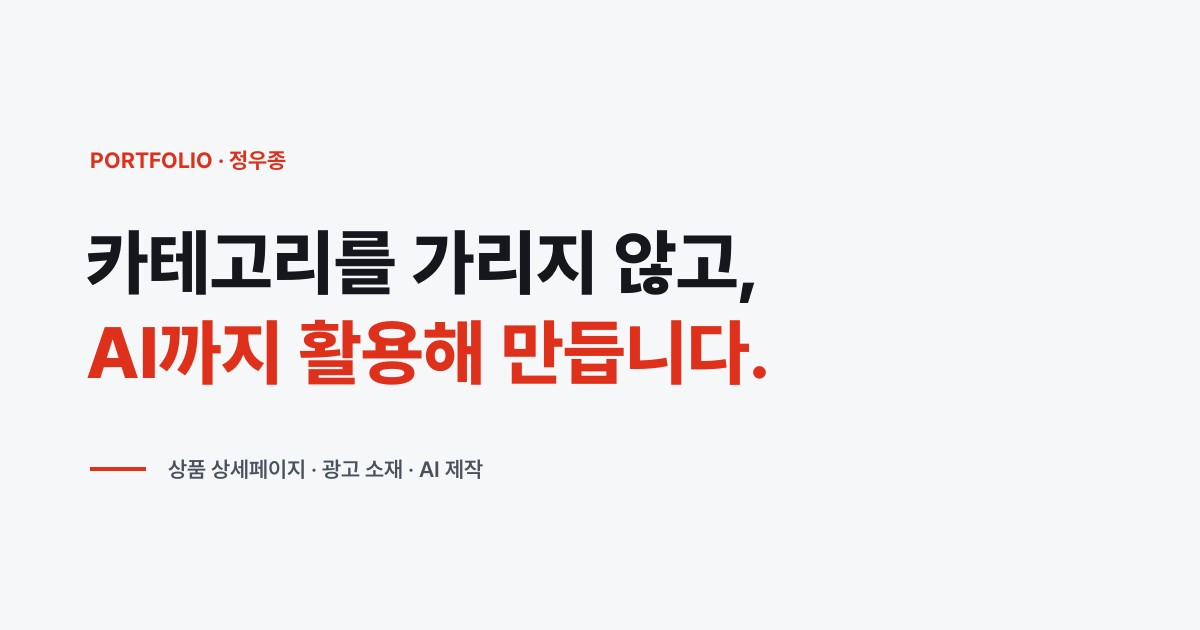
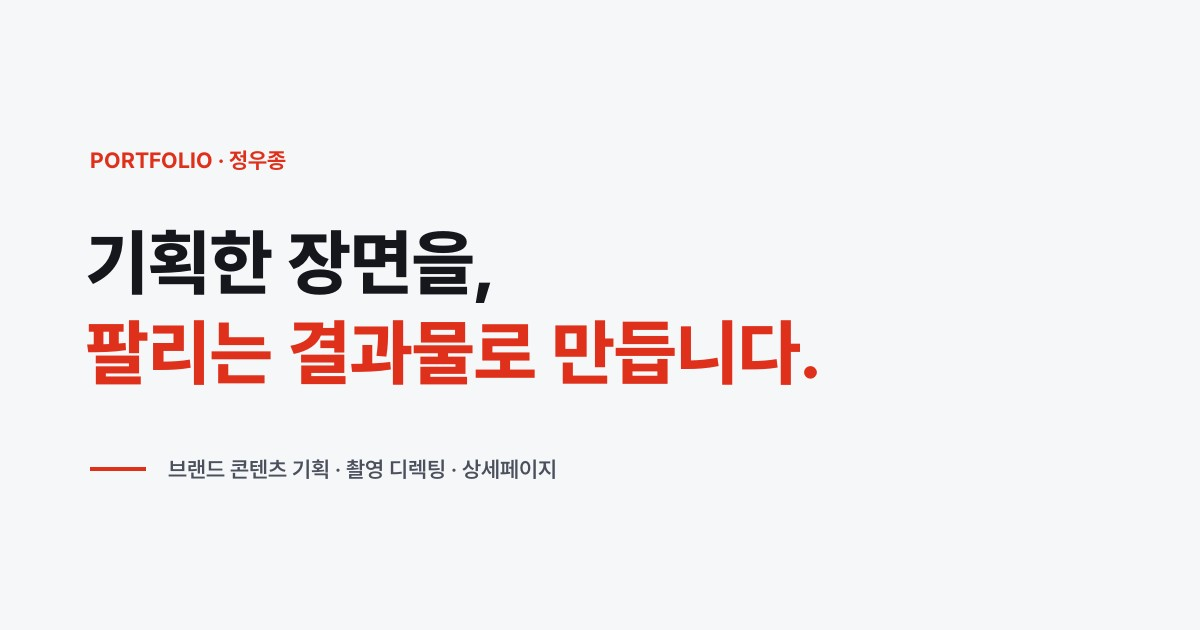
Add files via upload

Changed region(s): [[0.0617, 0.3619, 0.6783, 0.6333], [0.1233, 0.7238, 0.4625, 0.7841]]

diff --git a/living/index.html b/living/index.html
@@ -5,7 +5,7 @@
 <meta name="viewport" content="width=device-width,initial-scale=1,viewport-fit=cover">
 <meta name="robots" content="noindex,nofollow">
 <meta property="og:type" content="website">
-<meta property="og:title" content="정우종 | 콘텐츠·AI 제작 포트폴리오">
+<meta property="og:title" content="정우종 | 브랜드 콘텐츠 기획·촬영 디렉팅·상세페이지 포트폴리오">
 <meta property="og:description" content="기획한 장면을, 팔리는 결과물로 만듭니다.">
 <meta property="og:url" content="https://shopaaddict88-del.github.io/portfolio-wj/living/">
 <meta property="og:image" content="https://shopaaddict88-del.github.io/portfolio-wj/living/og.jpg">
@@ -14,7 +14,7 @@
   <meta property="og:image:alt" content="기획한 장면을, 팔리는 결과물로 만듭니다. 정우종 포트폴리오">
 <meta name="twitter:card" content="summary_large_image">
 <meta name="twitter:image" content="https://shopaaddict88-del.github.io/portfolio-wj/living/og.jpg">
-<title>정우종 | 콘텐츠·AI 제작 포트폴리오</title>
+<title>정우종 | 브랜드 콘텐츠 기획·촬영 디렉팅·상세페이지 포트폴리오</title>
 <style>
   :root{
     --ink:#f6f7f9;
@@ -98,6 +98,7 @@
   /* ---------- HERO ---------- */
   .hero{min-height:0; display:flex; flex-direction:column; justify-content:flex-start; padding-top:100px; padding-bottom:0;}
   .hero__label{font-family:var(--mono); font-weight:700; font-size:13px; color:var(--gold); letter-spacing:.08em; margin-bottom:22px;}
+  @media (max-width:520px){ .hero__label .hl-sep{display:none;} .hero__label .hl-name{display:block; margin-top:6px;} }
   .hero h1{text-wrap:balance; max-width:20ch;}
   .hero__desc{margin-top:28px; max-width:52ch;}
   .hero__cta{margin-top:40px; display:flex; gap:14px; flex-wrap:wrap;}
@@ -1194,7 +1195,7 @@
 })();
 </script>
 <section class="hero">
-  <div class="hero__label">콘텐츠 제작 · AI 활용 · 정우종</div>
+  <div class="hero__label"><span style="white-space:nowrap">브랜드 콘텐츠 기획</span> · <span style="white-space:nowrap">촬영 디렉팅</span> · <span style="white-space:nowrap">상세페이지</span><span class="hl-name"><span class="hl-sep"> · </span>정우종</span></div>
   <h1 class="t-display" style="max-width:none;">기획한 장면을,<br>팔리는 <span style="white-space:nowrap">결과물로 만듭니다.</span></h1>
   <p class="hero__desc t-body">
     식품, 생활용품, 뷰티, 패션, IT 기기, 건강기능식품까지 카테고리를 가리지 않고 1,000건 이상의 프로젝트에서 제품의 USP와 타깃을 정하고, 촬영 콘셉트부터 상세페이지·광고 소재까지 직접 기획하고 디렉팅해 왔습니다.<br>소재를 내보낸 뒤에는 클릭률과 전환율을 보고 멈출 것과 늘릴 것을 정했고, 모델 섭외가 어렵거나 재촬영이 필요한 컷은 생성형 AI로 만들어 제작 범위를 넓혔습니다.
